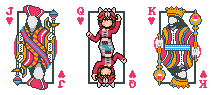
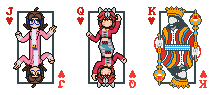
Update with YopAlonso as Hearts Jack

diff --git a/README.md b/README.md
@@ -3,7 +3,9 @@ Adding spanish speaking Vtuber character face cards to the game.
 
 - [Chrome Cottontail](https://www.twitch.tv/chromevt) as ♠Spades Queen
 - [Edomancer](https://www.twitch.tv/edomancer) as ♥Hearts Queen
+- [YopAlonso](https://www.twitch.tv/yopalonso) as ♥Hearts Jack
 - [SebasContre](https://www.twitch.tv/sebascontre) as ♣Clubs King
+- [Zamcito](https://www.twitch.tv/zamcito) as ♣Clubs Jack
 - [Arisa Elizabeth](https://www.twitch.tv/arisaelizabeth) as ♦Diamonds Queen
 
 All the art is made by [HiyokoSupiritto](https://x.com/Hiyoko991).
